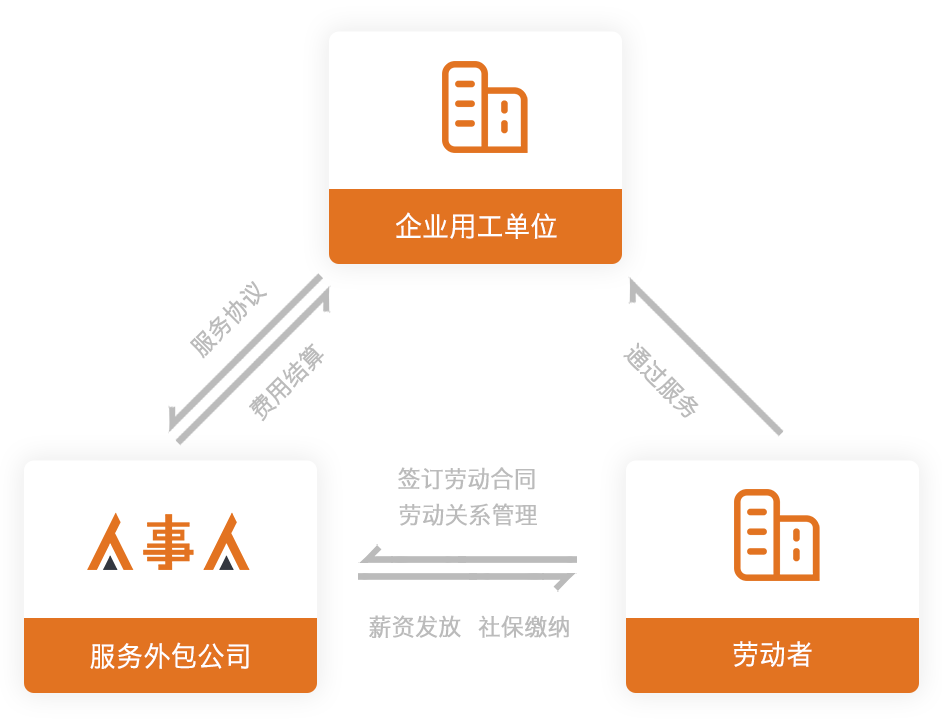
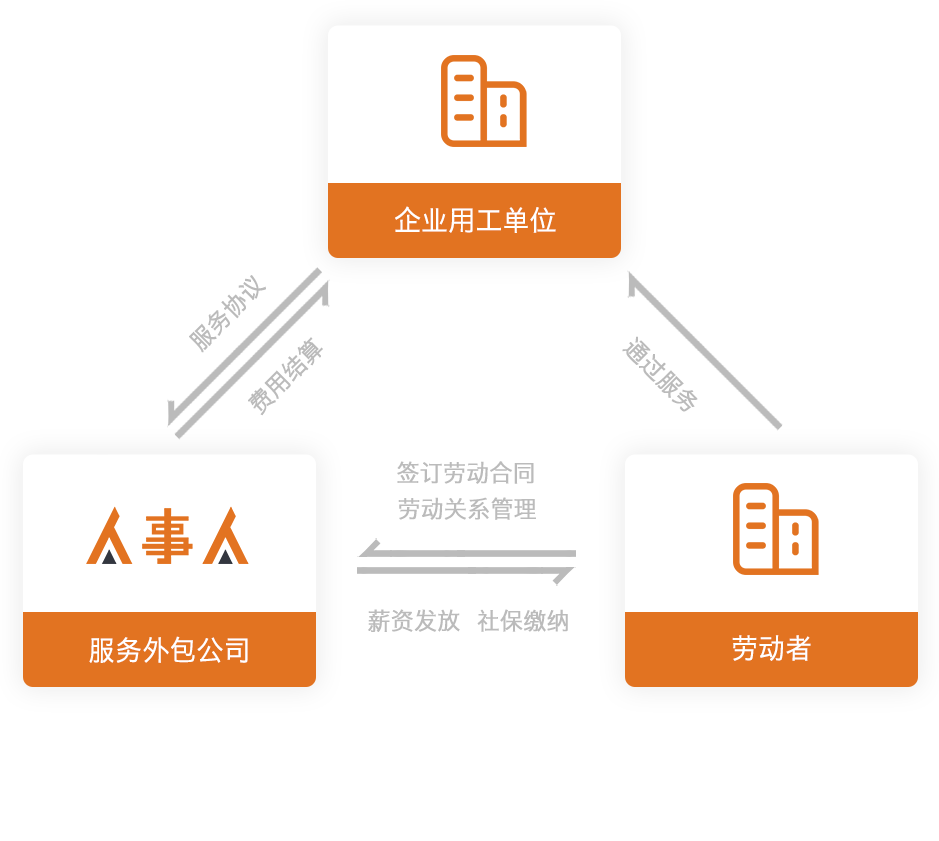
add

diff --git a/renshiren-index/WebContent/rsr/rsr_css/n_bpo.css b/renshiren-index/WebContent/rsr/rsr_css/n_bpo.css
@@ -165,15 +165,19 @@
 }
 
 .n_pro-service_sel-pannel{
-  padding-top: 92px;
+  padding-top: 42px;
   text-align: center;
   /* height: 724px; */
 }
 
 .n_pro-service_sel-pannel-pic{
-  width: 942px;
-  height: 724px;
-  transform: scale(0.8);
+  width: 939px;
+  height: 841px;
+  transform: scale(0.9);
+  -webkit-transform: scale(0.9);
+  -moz-transform: scale(0.9);
+  -ms-transform: scale(0.9);
+  -o-transform: scale(0.9);
 }
 
 .n_bpo-phone{

diff --git a/renshiren-index/WebContent/rsr/zs_platform.html b/renshiren-index/WebContent/rsr/zs_platform.html
@@ -53,7 +53,7 @@
       <div class="n_common-subtitle">BPO业务流程外包产品优势</div>
     </div>
     <div class="n_pro-g_pannel clear">
-      <img class="n_pro-g_pannel-pic" src=""/>
+      <img class="n_pro-g_pannel-pic" src="./rsr_images/n_pro-g_pannel-pic.png"/>
     </div>
   </div>
 </div>
